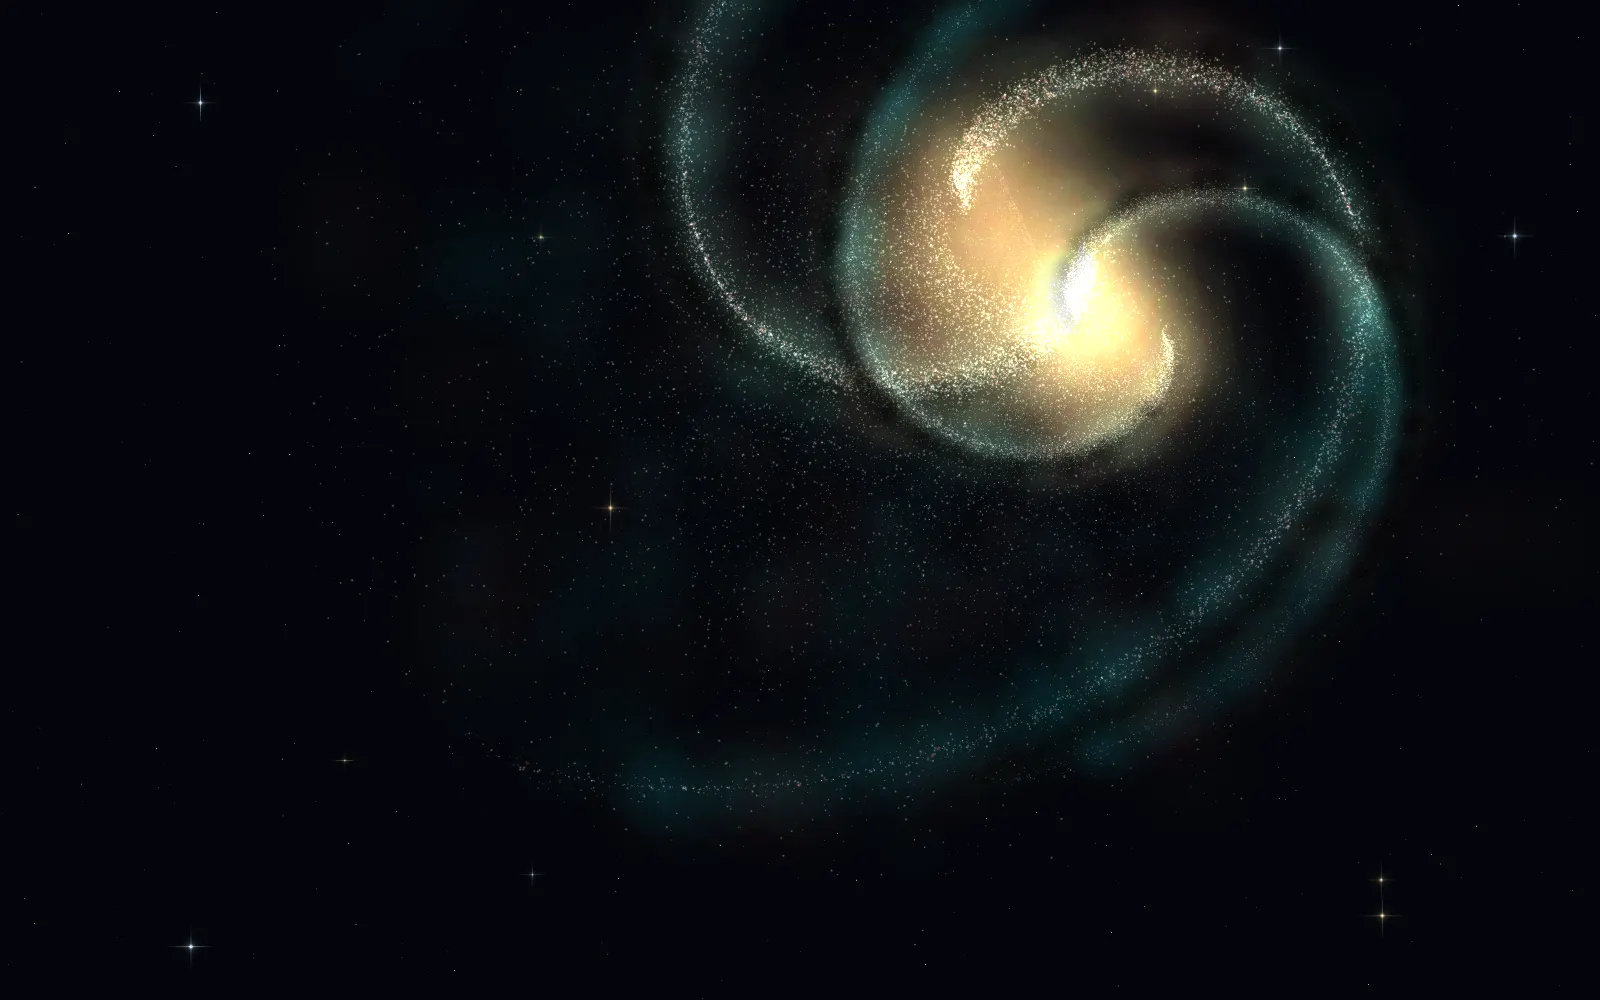
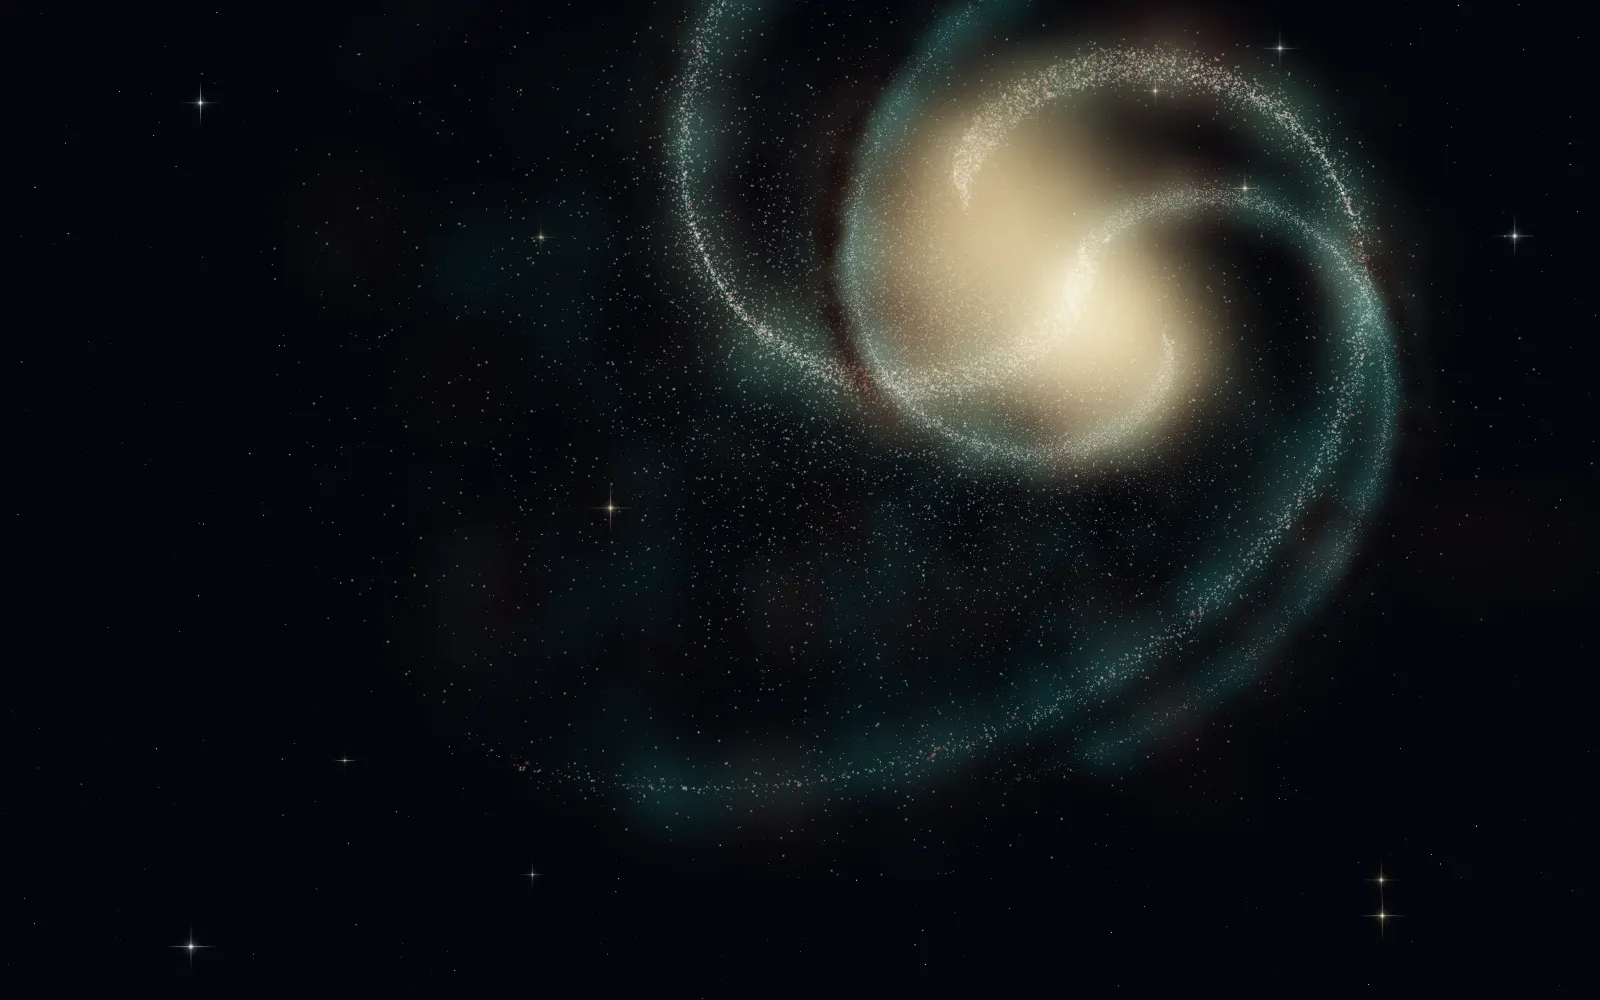
Tone-map the galaxy light and unify layout on the viewport
- Render galaxies to an offscreen light buffer (half-float where supported)
  and resolve through an exponential tone curve so dense cores roll off
- Keep dust lanes clear of the core rim
- Drop the 1920px content frame so copy, galaxies and the stop index share
  viewport coordinates; grow the hero spiral with ultra-wide widths
- Raise plate designation contrast; refresh the fallback plate

Changed region(s): [[0.4375, 0.031, 0.875, 0.496], [0.8438, 0.31, 0.875, 0.341]]

diff --git a/src/scripts/galaxy.ts b/src/scripts/galaxy.ts
@@ -43,6 +43,7 @@ uniform float u_alpha;
 uniform vec2 u_pointer;
 uniform float u_pull;
 uniform float u_warp;
+uniform float u_headroom;
 
 varying vec4 v_color;
 varying float v_kind;
@@ -71,11 +72,11 @@ void main() {
     if (u_pass == ${PASS_SPIKES}) {
       gl_PointSize = (26.0 + a_seed.z * 34.0) * u_dpr;
       vec3 c = mix(BLUEWHITE, GOLD_PALE, step(0.55, a_seed.w));
-      v_color = vec4(c, (0.55 + 0.45 * a_seed.z) * twinkle);
+      v_color = vec4(c, (0.55 + 0.45 * a_seed.z) * twinkle * u_headroom);
     } else {
       gl_PointSize = (0.8 + a_seed.z * a_seed.z * 2.2) * u_dpr;
       vec3 c = mix(WHITE, mix(BLUEWHITE, GOLD_PALE, a_seed.w), 0.6);
-      v_color = vec4(c, (0.25 + 0.75 * a_seed.z) * twinkle);
+      v_color = vec4(c, (0.25 + 0.75 * a_seed.z) * twinkle * u_headroom);
     }
     return;
   }
@@ -133,21 +134,21 @@ void main() {
     gl_PointSize = (40.0 + a_seed.w * 70.0) * u_dpr * sizeScale;
     vec3 c = mix(TEAL, GOLD, clamp(u_warmth * 0.5 + (1.0 - r) * 1.1 - 0.62, 0.0, 1.0));
     if (a_seed.w > 0.88) c = RUST;
-    float a = 0.06 * (1.0 - r * 0.6);
+    float a = 0.045 * (1.0 - r * 0.6);
     if (a_kind > 1.5) {
       // Bulge glow: a few broad, warm sprites around the core.
       gl_PointSize = (120.0 + a_seed.w * 160.0) * u_dpr * sizeScale;
       c = mix(GOLD, GOLD_PALE, a_seed.w);
       a = 0.04;
     }
-    v_color = vec4(c, a * u_alpha);
+    v_color = vec4(c, a * u_alpha * u_headroom);
     return;
   }
 
   if (u_pass == ${PASS_DUST}) {
     gl_PointSize = (16.0 + a_seed.w * 34.0) * u_dpr * sizeScale;
     // Absorption strength; lanes stay off the core rim and fade at the edge.
-    float a = 0.32 * smoothstep(0.22, 0.42, r) * (1.0 - smoothstep(0.7, 1.0, r));
+    float a = 0.32 * smoothstep(0.4, 0.62, r) * (1.0 - smoothstep(0.75, 1.0, r));
     v_color = vec4(0.62, 0.3, 0.2, a * u_alpha);
     return;
   }
@@ -176,7 +177,7 @@ void main() {
   gl_PointSize = size * u_dpr * sizeScale * (1.0 + u_warp * 0.6);
   // Fewer screen pixels per star means more overlap: dim to keep the core from clipping.
   float density = clamp(pow(u_scale / (1000.0 * u_dpr), 1.1), 0.42, 1.0);
-  v_color = vec4(c, a * u_alpha * density);
+  v_color = vec4(c, a * u_alpha * density * u_headroom);
 }
 `;
 
@@ -220,6 +221,29 @@ const QUAD_FRAG = /* glsl */ `
 precision mediump float;
 uniform vec4 u_color;
 void main() { gl_FragColor = u_color; }
+`;
+
+// Resolve: compress the additive light so dense cores roll off instead of clipping.
+const RESOLVE_VERT = /* glsl */ `
+attribute vec2 a_pos;
+varying vec2 v_uv;
+void main() {
+  v_uv = a_pos * 0.5 + 0.5;
+  gl_Position = vec4(a_pos, 0.0, 1.0);
+}
+`;
+
+const RESOLVE_FRAG = /* glsl */ `
+precision mediump float;
+uniform sampler2D u_tex;
+uniform float u_headroom;
+uniform vec3 u_void;
+varying vec2 v_uv;
+void main() {
+  vec3 c = texture2D(u_tex, v_uv).rgb / u_headroom;
+  vec3 mapped = 1.0 - exp(-c * 1.85);
+  gl_FragColor = vec4(u_void + (1.0 - u_void) * mapped, 1.0);
+}
 `;
 
 function rng(seed: number) {
@@ -296,16 +320,18 @@ export function startGalaxy(canvas: HTMLCanvasElement, scenes: Scene[]): GalaxyC
     alpha: false,
     antialias: false,
     premultipliedAlpha: false,
-    preserveDrawingBuffer: true,
+    preserveDrawingBuffer: false,
     powerPreference: 'high-performance',
   });
   if (!gl) return null;
 
   let prog: WebGLProgram;
   let quad: WebGLProgram;
+  let resolveProg: WebGLProgram;
   try {
     prog = compile(gl, VERT, FRAG);
     quad = compile(gl, QUAD_VERT, QUAD_FRAG);
+    resolveProg = compile(gl, RESOLVE_VERT, RESOLVE_FRAG);
   } catch (err) {
     console.warn('[cosmos] galaxy disabled:', err);
     return null;
@@ -429,6 +455,40 @@ export function startGalaxy(canvas: HTMLCanvasElement, scenes: Scene[]): GalaxyC
   };
   const quadPos = gl.getAttribLocation(quad, 'a_pos');
   const quadColor = gl.getUniformLocation(quad, 'u_color');
+  const resolvePos = gl.getAttribLocation(resolveProg, 'a_pos');
+  const R = {
+    tex: gl.getUniformLocation(resolveProg, 'u_tex'),
+    headroom: gl.getUniformLocation(resolveProg, 'u_headroom'),
+    void: gl.getUniformLocation(resolveProg, 'u_void'),
+  };
+  const headroomLoc = gl.getUniformLocation(prog, 'u_headroom');
+
+  // Offscreen light buffer: half-float where supported, else 8-bit with headroom.
+  const halfExt = gl.getExtension('OES_texture_half_float');
+  gl.getExtension('EXT_color_buffer_half_float');
+  const lightTex = gl.createTexture()!;
+  const fbo = gl.createFramebuffer()!;
+  let texType: number = halfExt ? halfExt.HALF_FLOAT_OES : gl.UNSIGNED_BYTE;
+  let headroom = 1;
+
+  function allocLight(w: number, h: number) {
+    gl!.bindTexture(gl!.TEXTURE_2D, lightTex);
+    gl!.texParameteri(gl!.TEXTURE_2D, gl!.TEXTURE_MIN_FILTER, gl!.NEAREST);
+    gl!.texParameteri(gl!.TEXTURE_2D, gl!.TEXTURE_MAG_FILTER, gl!.NEAREST);
+    gl!.texParameteri(gl!.TEXTURE_2D, gl!.TEXTURE_WRAP_S, gl!.CLAMP_TO_EDGE);
+    gl!.texParameteri(gl!.TEXTURE_2D, gl!.TEXTURE_WRAP_T, gl!.CLAMP_TO_EDGE);
+    gl!.texImage2D(gl!.TEXTURE_2D, 0, gl!.RGBA, w, h, 0, gl!.RGBA, texType, null);
+    gl!.bindFramebuffer(gl!.FRAMEBUFFER, fbo);
+    gl!.framebufferTexture2D(gl!.FRAMEBUFFER, gl!.COLOR_ATTACHMENT0, gl!.TEXTURE_2D, lightTex, 0);
+    if (texType !== gl!.UNSIGNED_BYTE && gl!.checkFramebufferStatus(gl!.FRAMEBUFFER) !== gl!.FRAMEBUFFER_COMPLETE) {
+      texType = gl!.UNSIGNED_BYTE;
+      allocLight(w, h);
+      return;
+    }
+    // 8-bit targets store light at reduced intensity so highlights have room.
+    headroom = texType === gl!.UNSIGNED_BYTE ? 0.45 : 1;
+    gl!.bindFramebuffer(gl!.FRAMEBUFFER, null);
+  }
 
   // --- State --------------------------------------------------------------
   let dpr = 1;
@@ -454,6 +514,7 @@ export function startGalaxy(canvas: HTMLCanvasElement, scenes: Scene[]): GalaxyC
       canvas.height = H;
     }
     gl!.viewport(0, 0, W, H);
+    allocLight(W, H);
   }
 
   function bindCloud(c: Buffers) {
@@ -510,7 +571,10 @@ export function startGalaxy(canvas: HTMLCanvasElement, scenes: Scene[]): GalaxyC
       x = cssW / 2;
       y = cssH * (stacked ? 0.82 : 0.8);
     } else if (scene.kind === 'hero') {
-      radius = stacked ? Math.max(cssW * 0.85, cssH * 0.4) : Math.min(frame * 0.5, cssH * 0.78);
+      // On ultra-wide screens the spiral grows with the width so it stays full-bleed.
+      radius = stacked
+        ? Math.max(cssW * 0.85, cssH * 0.4)
+        : Math.min(frame * 0.5, Math.max(cssH * 0.78, cssW * 0.4));
       if (stacked) {
         x = cssW * 0.62;
         y = cssH * 0.3;
@@ -567,6 +631,7 @@ export function startGalaxy(canvas: HTMLCanvasElement, scenes: Scene[]): GalaxyC
     if (still) pull = 0;
 
     // Clear, or during the warp let the previous frame persist as a trail.
+    gl!.bindFramebuffer(gl!.FRAMEBUFFER, fbo);
     gl!.useProgram(quad);
     gl!.enable(gl!.BLEND);
     gl!.blendFunc(gl!.SRC_ALPHA, gl!.ONE_MINUS_SRC_ALPHA);
@@ -574,7 +639,7 @@ export function startGalaxy(canvas: HTMLCanvasElement, scenes: Scene[]): GalaxyC
     gl!.enableVertexAttribArray(quadPos);
     gl!.vertexAttribPointer(quadPos, 2, gl!.FLOAT, false, 0, 0);
     const fade = warping ? Math.max(0.05, 1 - warp * 1.4) : 1;
-    gl!.uniform4f(quadColor, VOID[0], VOID[1], VOID[2], fade);
+    gl!.uniform4f(quadColor, 0, 0, 0, fade);
     gl!.drawArrays(gl!.TRIANGLE_STRIP, 0, 4);
     gl!.disableVertexAttribArray(quadPos);
 
@@ -585,6 +650,7 @@ export function startGalaxy(canvas: HTMLCanvasElement, scenes: Scene[]): GalaxyC
     gl!.uniform2f(U.pointer, pointer.x * dpr, pointer.y * dpr);
     gl!.uniform1f(U.pull, pull);
     gl!.uniform1f(U.warp, warp);
+    gl!.uniform1f(headroomLoc, headroom);
 
     // Backdrop field stars.
     gl!.blendFunc(gl!.SRC_ALPHA, gl!.ONE);
@@ -602,6 +668,21 @@ export function startGalaxy(canvas: HTMLCanvasElement, scenes: Scene[]): GalaxyC
     gl!.uniform1f(U.alpha, 1);
     bindCloud(spikes);
     gl!.drawArrays(gl!.POINTS, 0, spikes.count);
+
+    // Resolve the light buffer to the screen through the tone curve.
+    gl!.bindFramebuffer(gl!.FRAMEBUFFER, null);
+    gl!.disable(gl!.BLEND);
+    gl!.useProgram(resolveProg);
+    gl!.activeTexture(gl!.TEXTURE0);
+    gl!.bindTexture(gl!.TEXTURE_2D, lightTex);
+    gl!.uniform1i(R.tex, 0);
+    gl!.uniform1f(R.headroom, headroom);
+    gl!.uniform3f(R.void, VOID[0], VOID[1], VOID[2]);
+    gl!.bindBuffer(gl!.ARRAY_BUFFER, quadBuf);
+    gl!.enableVertexAttribArray(resolvePos);
+    gl!.vertexAttribPointer(resolvePos, 2, gl!.FLOAT, false, 0, 0);
+    gl!.drawArrays(gl!.TRIANGLE_STRIP, 0, 4);
+    gl!.disableVertexAttribArray(resolvePos);
 
     // Keep animating unless motion is reduced; then draw only on change.
     if (!still || warping) schedule();
